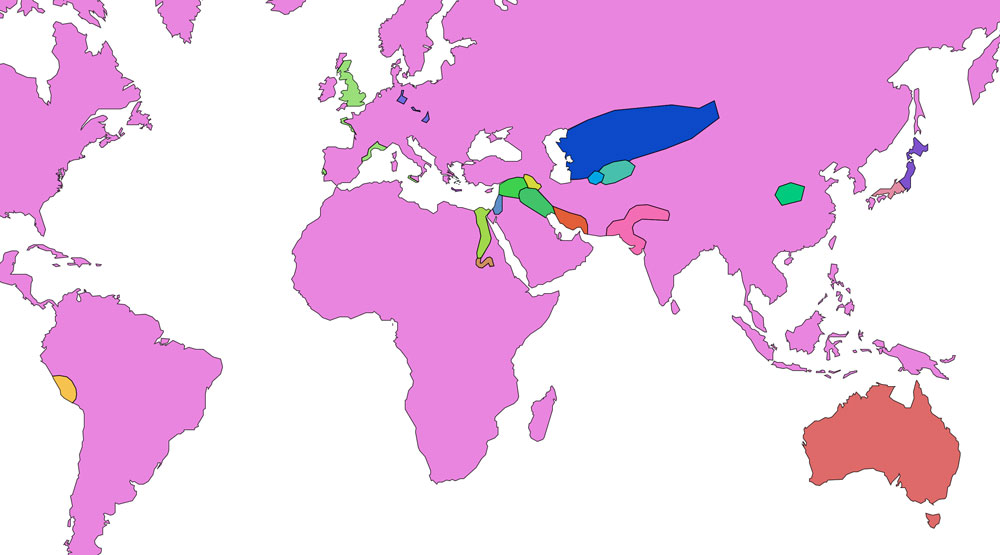
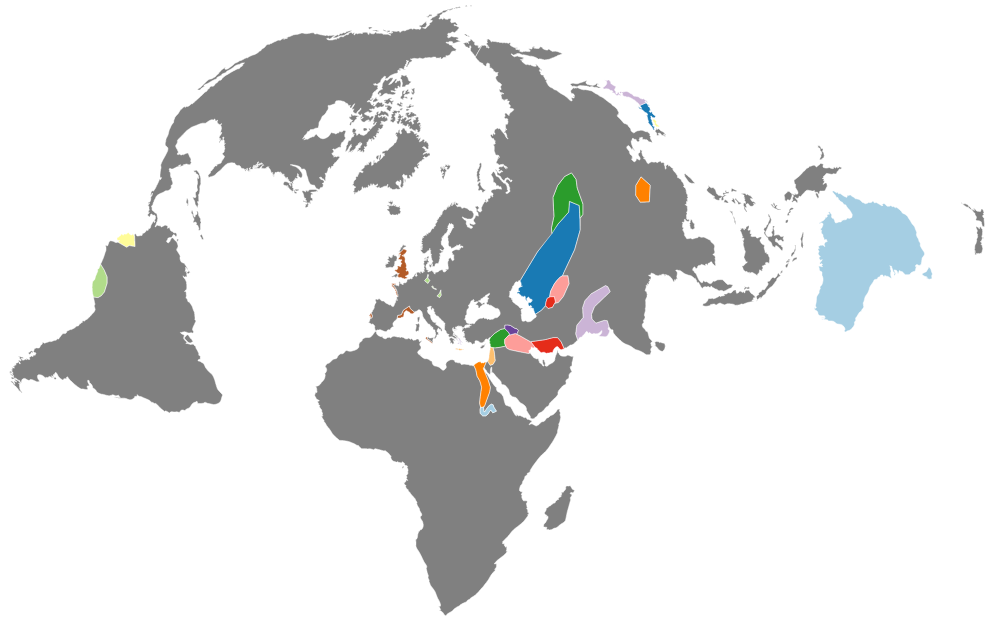
d3 example

diff --git a/d3example.html b/d3example.html
@@ -1,0 +1,82 @@
+<!DOCTYPE html>
+<meta charset="utf-8">
+<style>
+
+.land {
+  fill: #222;
+}
+
+.boundary {
+  fill: none;
+  stroke: #fff;
+  stroke-width: 0.5px;
+}
+
+.states {
+  stroke: #fff;
+  stroke-width: 0.5;
+}
+
+
+</style>
+<svg width="1400" height="1000"></svg>
+<script src="https://d3js.org/d3.v4.min.js"></script>
+<script src="https://d3js.org/d3-geo-projection.v1.min.js"></script>
+<!-- <script src="https://d3js.org/topojson.v2.min.js"></script> -->
+<script src="https://d3js.org/d3-scale-chromatic.v0.3.min.js"></script>
+<script src="https://d3js.org/queue.v1.min.js"></script>
+<script>
+
+var svg = d3.select("svg"),
+    width = +svg.attr("width"),
+    height = +svg.attr("height");
+
+var projection = 
+    // d3.geoPeirceQuincuncial() // the one we want but breaks topology
+    // d3.geoGringortenQuincuncial()
+    // d3.geoInterruptedMollweideHemispheres()
+    // d3.geoAzimuthalEquidistant()
+    // d3.geoInterruptedMollweideHemispheres()
+    // d3.geoWiechel()
+    // d3.geoPolyhedralWaterman()
+    d3.geoSinuMollweide() // pas mal
+    // d3.geoNaturalEarth1() // bien
+    // d3.geoLoximuthal() // la meilleure
+    // d3.geoBonne() //
+    // d3.geoBertin()
+        .scale(214)
+        .translate([width / 2, height / 2])
+        .precision(0.1);
+
+var path = d3.geoPath()
+  .projection(projection);
+
+
+queue()
+	.defer(d3.json, 'world1880.geojson') 
+	.await(makeMyMap);
+
+function makeMyMap(error, states) {
+  if (error) throw error;
+
+    var colors = d3.scaleOrdinal(d3.schemePaired);
+	
+    svg.append("g")
+        .attr("class", "states")
+      .selectAll("path")
+        .data(states.features)
+        .enter().append("path")
+        .attr("d", path)
+          .attr("fill", function(d){
+            console.log(d.properties.ABBREVNAME)
+            if (d.properties.ABBREVNAME==="Antarctica") {return("white")}
+            else if (d.properties.NAME==null | d.properties.NAME=='unclaimed') {return("grey")}
+            else {
+              return(colors(d.properties.NAME))
+              //return(colors[Math.floor(Math.random() * colors.length)])
+            }
+          })
+    ;
+    
+}
+</script>

diff --git a/README.md b/README.md
@@ -1,10 +1,10 @@
 # Historical boundaries of world countries and cultural regions
 
-![world bc 2000 DRAFT](world_bc2000.png)
+![world 1880 DRAFT](world1880.png)
 
 This historical boundaries project aims at providing ready-to-use base maps for mapping historical data.
 
-All maps are stored in the geojson format: single file per feature layer, human and machine readable, easy to import in [qGIS](https://github.com/qgis/QGIS) or use in [D3](https://github.com/d3). Geodata precision and generalization is adapted for mapping data on the scale of a continent or of the whole world.
+All maps are stored in the geojson format: single file per feature layer, human and machine readable, easy to import in [qGIS](https://github.com/qgis/QGIS) or use in [D3](https://github.com/d3) (see [d3example.html](d3example.html)). Geodata precision and generalization is adapted for mapping data on the scale of a continent or of the whole world.
 
 When using the data, keep in mind that
 
